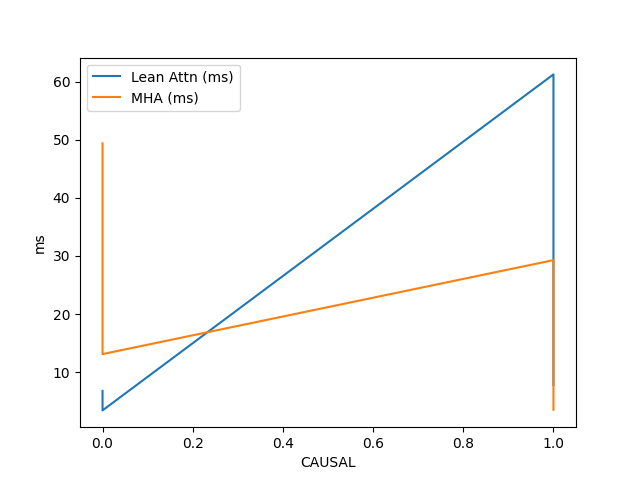
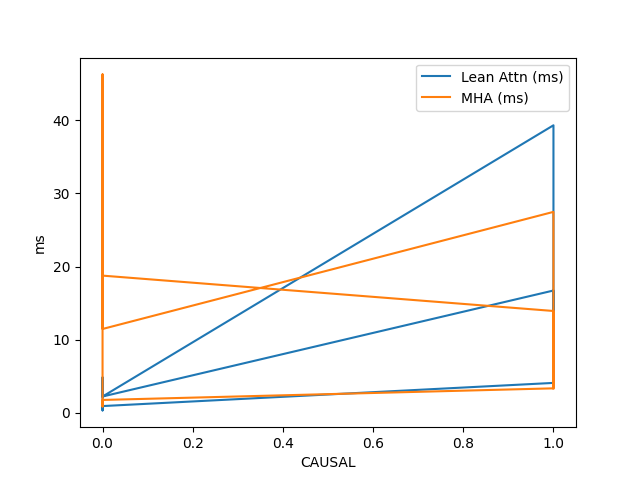
looking into spatial

diff --git a/results.html b/results.html
@@ -1,3 +1,3 @@
 <html><body>
-<image src="attention-bwd-comparison.png"/>
+<image src="attention-comparison.png"/>
 </body></html>

diff --git a/aiter/ops/triton/lean_atten.py b/aiter/ops/triton/lean_atten.py
@@ -170,13 +170,13 @@ def _persistent_lean_attention(
         total_programs,
     )
 
-    print(
-        f"high_load_wgs={high_load_wgs}, max_tiles_per_wg={max_tiles_per_wg}, tiles_per_head={tiles_per_head}"
-    )
-    print(
-        f"total_programs={total_programs}, num_splits={num_splits}, even_split={even_split}"
-    )
-    print(f"num_m_blocks={num_m_blocks}, num_n_blocks={num_n_blocks}")
+    # print(
+    #     f"high_load_wgs={high_load_wgs}, max_tiles_per_wg={max_tiles_per_wg}, tiles_per_head={tiles_per_head}"
+    # )
+    # print(
+    #     f"total_programs={total_programs}, num_splits={num_splits}, even_split={even_split}"
+    # )
+    # print(f"num_m_blocks={num_m_blocks}, num_n_blocks={num_n_blocks}")
 
     max_output_tile_cnt = calculate_max_output_tiles_analytically(
         tiles_per_head=tiles_per_head,
@@ -249,6 +249,7 @@ def _persistent_lean_attention(
         max_output_tile_cnt=max_output_tile_cnt,
         num_warps=num_warps,
         num_stages=config.get("num_stages", 1),
+        NUM_HEADS=H,
     )
     """
     kernel_timing["attn_fwd"]["end_event"].record()
@@ -582,6 +583,7 @@ def la_persistent(
     tiles_per_head: tl.constexpr,
     num_splits: tl.constexpr,
     max_output_tile_cnt: tl.constexpr,
+    NUM_HEADS: tl.constexpr,
 ):
     if is_pod:
         current_pid = pod_pid
@@ -657,6 +659,7 @@ def la_persistent(
                 max_tiles_per_wg=max_tiles_per_wg,
                 tiles_per_head=tiles_per_head,
                 num_splits=num_splits,
+                NUM_HEADS=NUM_HEADS,
             )
 
 
@@ -703,6 +706,7 @@ def la_persistent_inner(
     max_tiles_per_wg: tl.constexpr,
     tiles_per_head: tl.constexpr,
     num_splits: tl.constexpr,
+    NUM_HEADS: tl.constexpr,
 ):
 
     tl.assume(stride_qm > 0)  # n_ctx_q
@@ -725,7 +729,22 @@ def la_persistent_inner(
     # while iter < cta_end_tile_gid:
     # Calculate index of current head output tile
     # The tiles_per_head is the sum of # BLOCK_N in K/V sequence of all batches
-    tile_head_idx = iter // tiles_per_head
+    # Swizzled global tile order: interpret iter in a head-first, lane-interleaved order
+    # tile_head_idx = iter // tiles_per_head
+    h_lin = iter // tiles_per_head  # head index in swizzled order
+    # Map swizzled head index to physical head id pinned to XCD lanes (NUM_XCD=8)
+    NUM_XCD: tl.constexpr = 8
+    base = NUM_HEADS // NUM_XCD
+    rem = NUM_HEADS % NUM_XCD
+    # Balanced mapping: first base rows have all lanes, last row has `rem` lanes
+    if h_lin < base * NUM_XCD:
+        lane = h_lin % NUM_XCD
+        rank = h_lin // NUM_XCD
+    else:
+        lane = h_lin - base * NUM_XCD  # 0 .. rem-1
+        rank = base
+    heads_before_lane = lane * base + tl.minimum(lane, rem)
+    tile_head_idx = heads_before_lane + rank  # physical head id used for memory strides
     # To generate an otuput tile, a loop over [tile_iter, tile_iter_end) lean tiles is needed
     # [tile_iter, tile_iter_end) are in the form of global tile id
     if causal:
@@ -735,13 +754,13 @@ def la_persistent_inner(
         # per_head_tile_size: per head # BLOCK_N of each output tile
         per_head_tile_idx, per_head_tile_size, total_blocks = find_group(
             iter
-            - (tile_head_idx * tiles_per_head)
+            - (h_lin * tiles_per_head)
             - (tile_batch_idx * (tiles_per_head // batch_size)),
             MASKED_BLOCKS,
             num_m_blocks,
         )
         tile_iter = (
-            tile_head_idx * tiles_per_head
+            h_lin * tiles_per_head
             + (tile_batch_idx * (tiles_per_head // batch_size))
             + total_blocks
         )
@@ -749,11 +768,12 @@ def la_persistent_inner(
         tile_idx = (
             tile_head_idx * batch_size + tile_batch_idx
         ) * num_m_blocks + per_head_tile_idx
+    
     else:
         tile_idx = (
             tile_head_idx * batch_size
         )  # Output tile idx, 1 output tile per head per batch
-        tile_iter = tile_head_idx * tiles_per_head
+        tile_iter = h_lin * tiles_per_head
         if batch_size == 1:
             req_size = tiles_per_head
         else:
@@ -767,6 +787,45 @@ def la_persistent_inner(
                 tile_idx = tile_idx + b
                 tile_iter_end = tile_iter + (next_req_size - req_size)
             req_size = next_req_size
+    # if causal:
+    #     tile_batch_idx = (iter % tiles_per_head) // (tiles_per_head // batch_size)
+    #     # Does not support ragged batching. All requests in the batch have the same context length (per_head_tile_size)
+    #     # tiles_per_head: total sum of # BLOCK_N in K/V sequence of all batches
+    #     # per_head_tile_size: per head # BLOCK_N of each output tile
+    #     per_head_tile_idx, per_head_tile_size, total_blocks = find_group(
+    #         iter
+    #         - (tile_head_idx * tiles_per_head)
+    #         - (tile_batch_idx * (tiles_per_head // batch_size)),
+    #         MASKED_BLOCKS,
+    #         num_m_blocks,
+    #     )
+    #     tile_iter = (
+    #         tile_head_idx * tiles_per_head
+    #         + (tile_batch_idx * (tiles_per_head // batch_size))
+    #         + total_blocks
+    #     )
+    #     tile_iter_end = tile_iter + (per_head_tile_size)
+    #     tile_idx = (
+    #         tile_head_idx * batch_size + tile_batch_idx
+    #     ) * num_m_blocks + per_head_tile_idx
+    # else:
+    #     tile_idx = (
+    #         tile_head_idx * batch_size
+    #     )  # Output tile idx, 1 output tile per head per batch
+    #     tile_iter = tile_head_idx * tiles_per_head
+    #     if batch_size == 1:
+    #         req_size = tiles_per_head
+    #     else:
+    #         req_size = tl.load(batch_num_block_n)
+    #     tile_iter_end = tile_iter + req_size
+    #     for b in range(1, batch_size):
+    #         next_req_size = tl.load(batch_num_block_n + b)
+    #         local_head_iter = iter % tiles_per_head
+    #         if (local_head_iter < next_req_size) and (local_head_iter >= req_size):
+    #             tile_iter = tile_iter + req_size
+    #             tile_idx = tile_idx + b
+    #             tile_iter_end = tile_iter + (next_req_size - req_size)
+    #         req_size = next_req_size
     # Local lean tile ID within a loop of an output tile
     local_iter = iter - tile_iter
     local_iter_end = tl.minimum(tile_iter_end, cta_end_tile_gid) - tile_iter

diff --git a/op_tests/triton_tests/test_la.py b/op_tests/triton_tests/test_la.py
@@ -97,65 +97,77 @@ def reference_attention(q, k, v, n_ctx, n_ctx_q, sm_scale, causal):
 @pytest.mark.parametrize(
     "causal, batch, h, n_ctx_q, n_ctx, d, total_programs, init_dtype, BLOCK_M, BLOCK_N, waves_per_eu, num_warps ",
     [
-        (False, 2, 64, 128, [65536, 65536], 128, 304, torch.float16, 128, 64, 1, 4),
-        (False, 2, 64, 16, [65536, 65536], 128, 912, torch.float16, 16, 128, 3, 4),
-        (False, 1, 64, 16, [131072], 128, 912, torch.float16, 16, 128, 2, 4),
-        (False, 1, 64, 16, [262144], 64, 912, torch.float16, 16, 64, 2, 4),
-        (False, 1, 64, 16, [524288], 64, 912, torch.float16, 16, 64, 2, 4),
-        (False, 2, 96, 16, [32768, 32768], 128, 912, torch.float16, 16, 128, 2, 4),
-        (False, 1, 96, 16, [65536], 128, 912, torch.float16, 16, 128, 2, 4),
-        (False, 1, 96, 16, [131072], 128, 912, torch.float16, 16, 128, 2, 4),
-        (False, 1, 96, 16, [262144], 64, 912, torch.float16, 16, 64, 2, 4),
-        (False, 1, 96, 16, [524288], 16, 912, torch.float16, 16, 256, 1, 4),  #
-        (False, 1, 96, 16, [1048576], 16, 912, torch.float16, 16, 256, 1, 4),  #
-        (False, 1, 128, 16, [32768], 128, 912, torch.float16, 16, 128, 2, 4),
-        (False, 1, 128, 16, [65536], 128, 912, torch.float16, 16, 128, 2, 4),
-        (False, 1, 128, 16, [131072], 128, 912, torch.float16, 16, 128, 2, 4),
-        (False, 1, 128, 16, [262144], 64, 912, torch.float16, 16, 64, 2, 4),
-        (False, 1, 128, 16, [524288], 16, 912, torch.float16, 16, 256, 1, 4),  #
-        (
-            False,
-            3,
-            64,
-            16,
-            [4096, 32768, 65536],
-            128,
-            912,
-            torch.float16,
-            16,
-            128,
-            2,
-            4,
-        ),
-        (
-            False,
-            8,
-            64,
-            16,
-            [1024, 1024, 2048, 2048, 4096, 4096, 32768, 65536],
-            128,
-            912,
-            torch.float16,
-            16,
-            64,
-            2,
-            4,
-        ),
-        (
-            True,
-            1,
-            64,
-            8192,
-            [8192],
-            128,
-            304,
-            torch.float16,
-            128,
-            64,
-            2,
-            4,
-        ),  # Causal=1,
-        (True, 2, 64, 2048, [2048, 2048], 128, 304, torch.float16, 128, 64, 2, 4),
+        # Added from bench_mha
+        # (False, 2, 48, 16384, [8192, 8192], 128, 304, torch.float16, 128, 64, 1, 4),
+        # Added from bench_mha_la
+        (False, 1, 64, 128, [16384], 128, 304, torch.float16, 128, 64, 1, 4),
+        (False, 1, 96, 128, [32768], 128, 304, torch.float16, 128, 64, 1, 4),
+        (True, 1, 64, 8192, [8192], 128, 304, torch.float16, 128, 64, 2, 4),
+        (True, 2, 64, 8192, [8192, 8192], 128, 304, torch.float16, 128, 64, 2, 4),
+        (True, 1, 64, 16384, [16384], 128, 304, torch.float16, 128, 64, 2, 4),
+        # (True, 2, 64, 16384, [16384, 16384], 128, 304, torch.float16, 128, 64, 2, 4),
+        # (False, 2, 64, 8192, [8192, 8192], 128, 304, torch.float16, 128, 64, 1, 4),
+        # (False, 2, 64, 16384, [16384, 16384], 128, 304, torch.float16, 128, 64, 1, 4),
+        # (False, 2, 48, 16384, [16384, 16384], 128, 304, torch.float16, 128, 64, 1, 4),
+        # (False, 2, 64, 128, [65536, 65536], 128, 304, torch.float16, 128, 64, 1, 4),
+        # (False, 2, 64, 16, [65536, 65536], 128, 912, torch.float16, 16, 128, 3, 4),
+        # (False, 1, 64, 16, [131072], 128, 912, torch.float16, 16, 128, 2, 4),
+        # (False, 1, 64, 16, [262144], 64, 912, torch.float16, 16, 64, 2, 4),
+        # (False, 1, 64, 16, [524288], 64, 912, torch.float16, 16, 64, 2, 4),
+        # (False, 2, 96, 16, [32768, 32768], 128, 912, torch.float16, 16, 128, 2, 4),
+        # (False, 1, 96, 16, [65536], 128, 912, torch.float16, 16, 128, 2, 4),
+        # (False, 1, 96, 16, [131072], 128, 912, torch.float16, 16, 128, 2, 4),
+        # (False, 1, 96, 16, [262144], 64, 912, torch.float16, 16, 64, 2, 4),
+        # (False, 1, 96, 16, [524288], 16, 912, torch.float16, 16, 256, 1, 4),  #
+        # (False, 1, 96, 16, [1048576], 16, 912, torch.float16, 16, 256, 1, 4),  #
+        # (False, 1, 128, 16, [32768], 128, 912, torch.float16, 16, 128, 2, 4),
+        # (False, 1, 128, 16, [65536], 128, 912, torch.float16, 16, 128, 2, 4),
+        # (False, 1, 128, 16, [131072], 128, 912, torch.float16, 16, 128, 2, 4),
+        # (False, 1, 128, 16, [262144], 64, 912, torch.float16, 16, 64, 2, 4),
+        # (False, 1, 128, 16, [524288], 16, 912, torch.float16, 16, 256, 1, 4),  #
+        # (
+        #     False,
+        #     3,
+        #     64,
+        #     16,
+        #     [4096, 32768, 65536],
+        #     128,
+        #     912,
+        #     torch.float16,
+        #     16,
+        #     128,
+        #     2,
+        #     4,
+        # ),
+        # (
+        #     False,
+        #     8,
+        #     64,
+        #     16,
+        #     [1024, 1024, 2048, 2048, 4096, 4096, 32768, 65536],
+        #     128,
+        #     912,
+        #     torch.float16,
+        #     16,
+        #     64,
+        #     2,
+        #     4,
+        # ),
+        # (
+        #     True,
+        #     1,
+        #     64,
+        #     8192,
+        #     [8192],
+        #     128,
+        #     304,
+        #     torch.float16,
+        #     128,
+        #     64,
+        #     2,
+        #     4,
+        # ),  # Causal=1,
+        # (True, 2, 64, 2048, [2048, 2048], 128, 304, torch.float16, 128, 64, 2, 4),
         # These test cases fail:
         # (True, 2, 64, 2048, [2048, 2048], 128, 304, torch.float16, 128, 64, 2, 4),
         # (True, 1, 64, 4096, [4096], 128, 304, torch.float16, 128, 16, 3, 4),

diff --git a/aiter/ops/triton/mha.py b/aiter/ops/triton/mha.py
@@ -526,8 +526,9 @@ def _attn_fwd(
         start_m = (wid_per_batch % chunk_size) // NUM_XCD
         off_z = (wid // (NUM_BLOCKS * NUM_Q_HEADS)) % BATCH
     else: # MAPPING_MODE == 2, triton_fa case
-        off_q_head = (wid_per_batch % NUM_XCD) * (NUM_Q_HEADS // NUM_XCD) + (wid_per_batch // chunk_size)
-        start_m = (wid_per_batch % chunk_size) // NUM_XCD
+        # off_q_head = (wid_per_batch % NUM_XCD) * (NUM_Q_HEADS // NUM_XCD) + (wid_per_batch // chunk_size)
+        start_m = wid % NUM_BLOCKS
+        off_q_head = (wid // NUM_BLOCKS) % NUM_Q_HEADS
         off_z = (wid // (NUM_BLOCKS * NUM_Q_HEADS)) % BATCH
 
     # swizzled_wid = wid

diff --git a/op_tests/op_benchmarks/triton/bench_la_mha.py b/op_tests/op_benchmarks/triton/bench_la_mha.py
@@ -125,6 +125,12 @@ configs.append(
             (True, 2, 64, 16384, 16384, 128),
             (False, 2, 64, 8192, 8192, 128),
             (False, 2, 64, 16384, 16384, 128),
+            (False, 1, 64, 128, 16384, 128),
+            (False, 1, 96, 128, 32768, 128),
+            (True, 1, 64, 8192, 8192, 128),
+            (True, 2, 64, 8192, 8192, 128),
+            (True, 1, 64, 16384, 16384, 128),
+            (False, 2, 48, 16384, 8192, 128),
             # Add other configurations here for comparison
             # (True, 1, 64, 4096, 4096, 128),
             # (True, 4, 32, 2048, 2048, 64),
